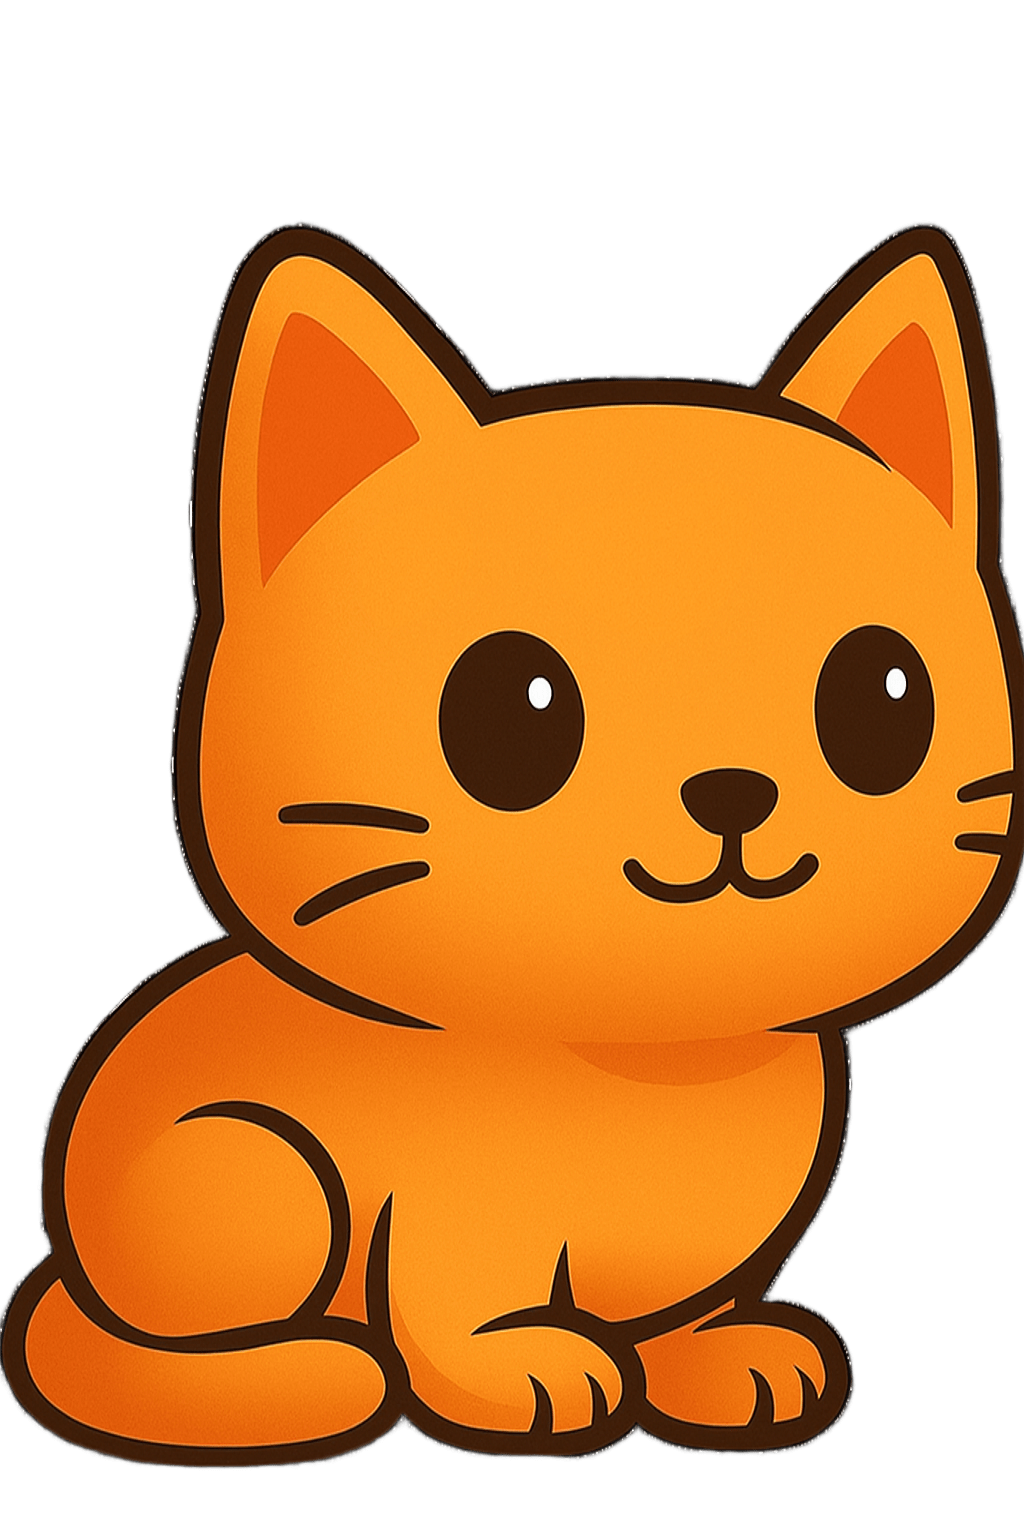
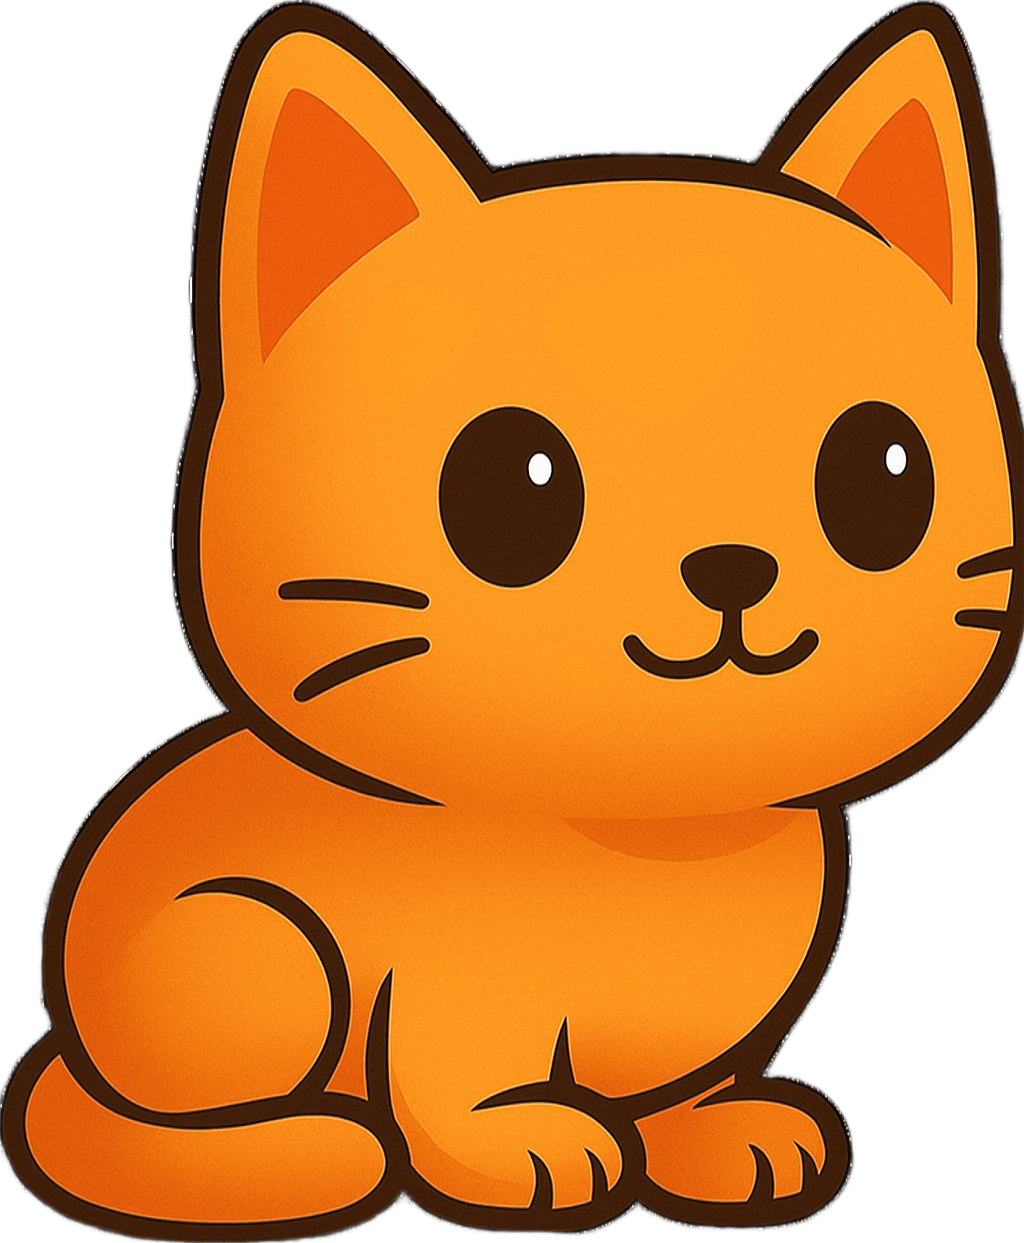
se intenta ajustar el player al agacharse pero sigue quedando pendiente un pequeño bug si se mantiene presionado

diff --git a/Wiskers/src/entities/Player.js b/Wiskers/src/entities/Player.js
@@ -20,9 +20,15 @@ export default class Player extends Phaser.Physics.Arcade.Sprite {
         const sizeRatio = walkFrame.height / idleImg.height;
         const BASE_SCALE = 0.2;
 
-        this.setScale(BASE_SCALE * sizeRatio);
         this.baseScale = BASE_SCALE;
         this.sizeRatio = sizeRatio;
+
+        this.setScale(this.baseScale * this.sizeRatio);
+
+        // Alturas visuales objetivo
+        this.standDisplayH = this.displayHeight;      // cómo se ve "de pie" ahora
+        this.crouchDisplayH = this.standDisplayH * 0.75; // ajusta 0.75 a lo que quieras que mida agachado
+
 
         this.refreshHitbox();
         this.playIdle();
@@ -31,9 +37,11 @@ export default class Player extends Phaser.Physics.Arcade.Sprite {
     playIdle() {
         if (this.isCrouching) return;
         if (this.anims.currentAnim?.key !== 'player-idle') {
+            const feetY = this.getBottomCenter().y;
             this.setTexture('gatoIdle');
-            this.setScale(this.baseScale * this.sizeRatio);
+            this._applyStandScale();
             this.anims.play('player-idle');
+            this._setBottom(feetY);     // ← ancla pies
             this.refreshHitbox();
         }
     }
@@ -41,36 +49,62 @@ export default class Player extends Phaser.Physics.Arcade.Sprite {
     playWalk() {
         if (this.isCrouching) return;
         if (this.anims.currentAnim?.key !== 'player-walk') {
+            const feetY = this.getBottomCenter().y;
             this.setTexture('gatoWalk_0');
-            this.setScale(this.baseScale);
             this.anims.play('player-walk', true);
+            this._applyStandScale();
+            this._setBottom(feetY);     // ← ancla pies
             this.refreshHitbox();
         }
     }
 
     playCrouch() {
-        if (this.anims.currentAnim?.key === 'player-crouch') return;
-
+        if (this.isCrouching) return;
         this.isCrouching = true;
-        this.setTexture('gatoCrouch'); 
-        this.setScale(this.baseScale * this.sizeRatio * 0.6 ); // más pequeño visualmente
-        //this.anims.play('player-crouch'); // define esta a nimación en tu escena
-        this.body.setSize(this.width * 0.4, this.height * 0.4); // hitbox más baja
-        this.body.setOffset(this.width * 0.3, this.height * 0.6);
+
+        const feetY = this.getBottomCenter().y;
+
+        this._withPhysicsLock(() => {
+            this.setTexture('gatoCrouch');
+            this._applyCrouchScale();
+            this._setBottom(feetY);
+            this.refreshHitbox();
+        });
     }
 
     stopCrouch() {
         if (!this.isCrouching) return;
         this.isCrouching = false;
-        this.playIdle();
-        this.refreshHitbox();
+
+        const feetY = this.getBottomCenter().y;
+
+        this._withPhysicsLock(() => {
+            // Aplica frame/anim primero y escala inmediatamente (sin esperar a UPDATE)
+            this.setTexture('gatoIdle');
+            this.anims.play('player-idle');
+            this._applyStandScale();
+            this._setBottom(feetY);
+            this.refreshHitbox();
+        });
     }
 
     refreshHitbox() {
-        const w = this.width;
-        const h = this.height;
-        this.body.setSize(w * 0.4, h * 0.6);
-        this.body.setOffset(w * 0.3, h * 0.35);
+        const body = this.body;
+        if (!body) return;
+
+        // Medidas del frame sin escala (estables)
+        const fw = this.frame?.realWidth ?? this.width;
+        const fh = this.frame?.realHeight ?? this.height;
+
+        // Tamaño del collider en espacio de frame (no display)
+        const targetH = this.isCrouching ? fh * 0.40 : fh * 0.60;
+        const targetW = fw * 0.40;
+
+        body.setSize(targetW, targetH, false);
+        body.setOffset(fw * 0.30, fh - targetH);   // mantiene el bottom alineado al frame
+
+        // Sincroniza con el GameObject (que ya recolocaste con setBottom)
+        body.updateFromGameObject();
     }
 
     preUpdate(time, delta) {
@@ -78,16 +112,23 @@ export default class Player extends Phaser.Physics.Arcade.Sprite {
 
         const { left, right, down, space } = this.cursors;
 
-        // ↓ Agacharse
-        if (down.isDown) {
-            this.setVelocityX(0);
-            this.playCrouch();
-            return; // no moverse mientras está agachado
-        } else {
-            this.stopCrouch();
+        const onFloor = this.body.blocked.down;
+        this.isOnFloor = onFloor;
+
+        // --- AGACHARSE (flancos) ---
+        if (Phaser.Input.Keyboard.JustDown(down) && !this.isCrouching) {
+            this.playCrouch(); // entrar solo al presionar ↓
+        } else if (Phaser.Input.Keyboard.JustUp(down) && this.isCrouching) {
+            this.stopCrouch(); // salir solo al SOLTAR ↓
         }
 
-        // ← / → movimiento
+        // Si está agachado, no mover ni saltar
+        if (this.isCrouching) {
+            this.setVelocityX(0);
+            return;
+        }
+
+        // --- MOVIMIENTO ---
         if (left.isDown) {
             this.setVelocityX(-this.speed);
             this.setFlipX(true);
@@ -101,12 +142,56 @@ export default class Player extends Phaser.Physics.Arcade.Sprite {
             this.playIdle();
         }
 
-        const onFloor = this.body.blocked.down;
-        this.isOnFloor = onFloor;
-
-        // Espacio para saltar
+        // --- SALTO ---
         if (onFloor && Phaser.Input.Keyboard.JustDown(space)) {
             this.setVelocityY(this.jumpVel);
         }
     }
+
+    _applyDisplayHeight(targetH) {
+        // Usa el alto "natural" del frame actual para calcular el scale exacto
+        const naturalH = this.frame?.realHeight ?? this.height;
+        const s = targetH / naturalH;
+        this.setScale(s);
+    }
+
+    _applyStandScale() {
+        this._applyDisplayHeight(this.standDisplayH);
+    }
+
+    _applyCrouchScale() {
+        this._applyDisplayHeight(this.crouchDisplayH);
+    }
+
+    _setBottom(feetY) {
+        const bottomOffset = this.displayHeight * (1 - this.originY);
+        this.setY(Math.round(feetY - bottomOffset)); // redondea
+        // No hace falta llamar siempre updateFromGameObject aquí
+        // se hará dentro de refreshHitbox cuando cambie realmente
+    }
+
+    // Congela caída 1 frame mientras cambiamos textura/escala/hitbox
+    _withPhysicsLock(applyChanges) {
+        const body = this.body;
+        if (!body) return;
+
+        const prevAllow = body.allowGravity;
+        const prevVy = body.velocity.y;
+
+        body.setAllowGravity(false);
+        body.setVelocityY(0);
+
+        applyChanges();                // ← aquí haces setTexture/scale/_setBottom/refreshHitbox
+
+        body.updateFromGameObject();
+
+        // Rehabilita después del paso de física, evitando el “tirón” hacia abajo
+        this.scene.physics.world.once('worldstep', () => {
+            body.setAllowGravity(prevAllow);
+            // No restauramos vy hacia abajo para no reintroducir el micro-caída
+            if (prevVy < 0) body.setVelocityY(prevVy); else body.setVelocityY(0);
+        });
+    }
+
+
 }
